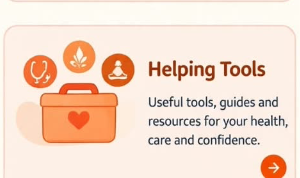
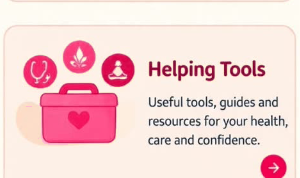
style(onboarding): apply brand pink theme to slide 1 & 2 assets, adjust vertical spacing, and move slide 3 stars and text below camera notch

Changed region(s): [[0.06, 0.2247, 0.45, 0.8146], [0.48, 0.3371, 0.9, 0.4775], [0.84, 0.8708, 0.96, 1.0]]

diff --git a/src/app/onboarding/carousel.tsx b/src/app/onboarding/carousel.tsx
@@ -238,7 +238,7 @@ export default function CarouselScreen() {
               {/* Heading & Subtitle */}
               <View style={styles.slide1TextContainer}>
                 <Text style={styles.slide1Title}>
-                  Dedicated to All Upcoming{'\n'}Mommies ♡
+                  Dedicated to All Upcoming{'\n'}Mommies <Text style={{ color: '#F06292' }}>♥</Text>
                 </Text>
                 <Text style={styles.slide1Subtitle}>
                   Your beautiful journey to motherhood starts here.{'\n'}
@@ -461,17 +461,17 @@ const styles = StyleSheet.create({
     width: '100%',
     alignItems: 'center',
     justifyContent: 'center',
-    paddingTop: 16,
+    paddingTop: 28,
   },
   slide3TrustedBodyWrapper: {
     width: '100%',
     alignItems: 'center',
     justifyContent: 'center',
-    paddingTop: 16,
+    paddingTop: 12,
   },
   slide2Header: {
     alignItems: 'center',
-    paddingTop: 8,
+    paddingTop: Platform.OS === 'android' ? 36 : 22,
     marginBottom: 6,
   },
   slide2Logo: {
@@ -489,9 +489,9 @@ const styles = StyleSheet.create({
   slide2Title: {
     fontSize: 19.5,
     fontWeight: '800',
-    color: '#451A03',
+    color: '#1E293B',
     textAlign: 'center',
-    lineHeight: 31,
+    lineHeight: 28,
     letterSpacing: -0.2,
   },
   slide2ImageWrapper: {
@@ -569,7 +569,7 @@ const styles = StyleSheet.create({
   slide2Tagline: {
     fontSize: 13,
     fontWeight: '700',
-    color: '#451A03',
+    color: '#F06292',
     textAlign: 'center',
     marginVertical: 2,
   },
@@ -646,12 +646,13 @@ const styles = StyleSheet.create({
   slide3BodyWrapper: {
     width: '100%',
     alignItems: 'center',
-    paddingTop: 14,
+    paddingTop: 20,
   },
   slide3HeroWrapper: {
     width: '100%',
     alignItems: 'center',
     justifyContent: 'flex-start',
+    marginTop: 6,
   },
   slide3CardsSection: {
     paddingHorizontal: 16,
